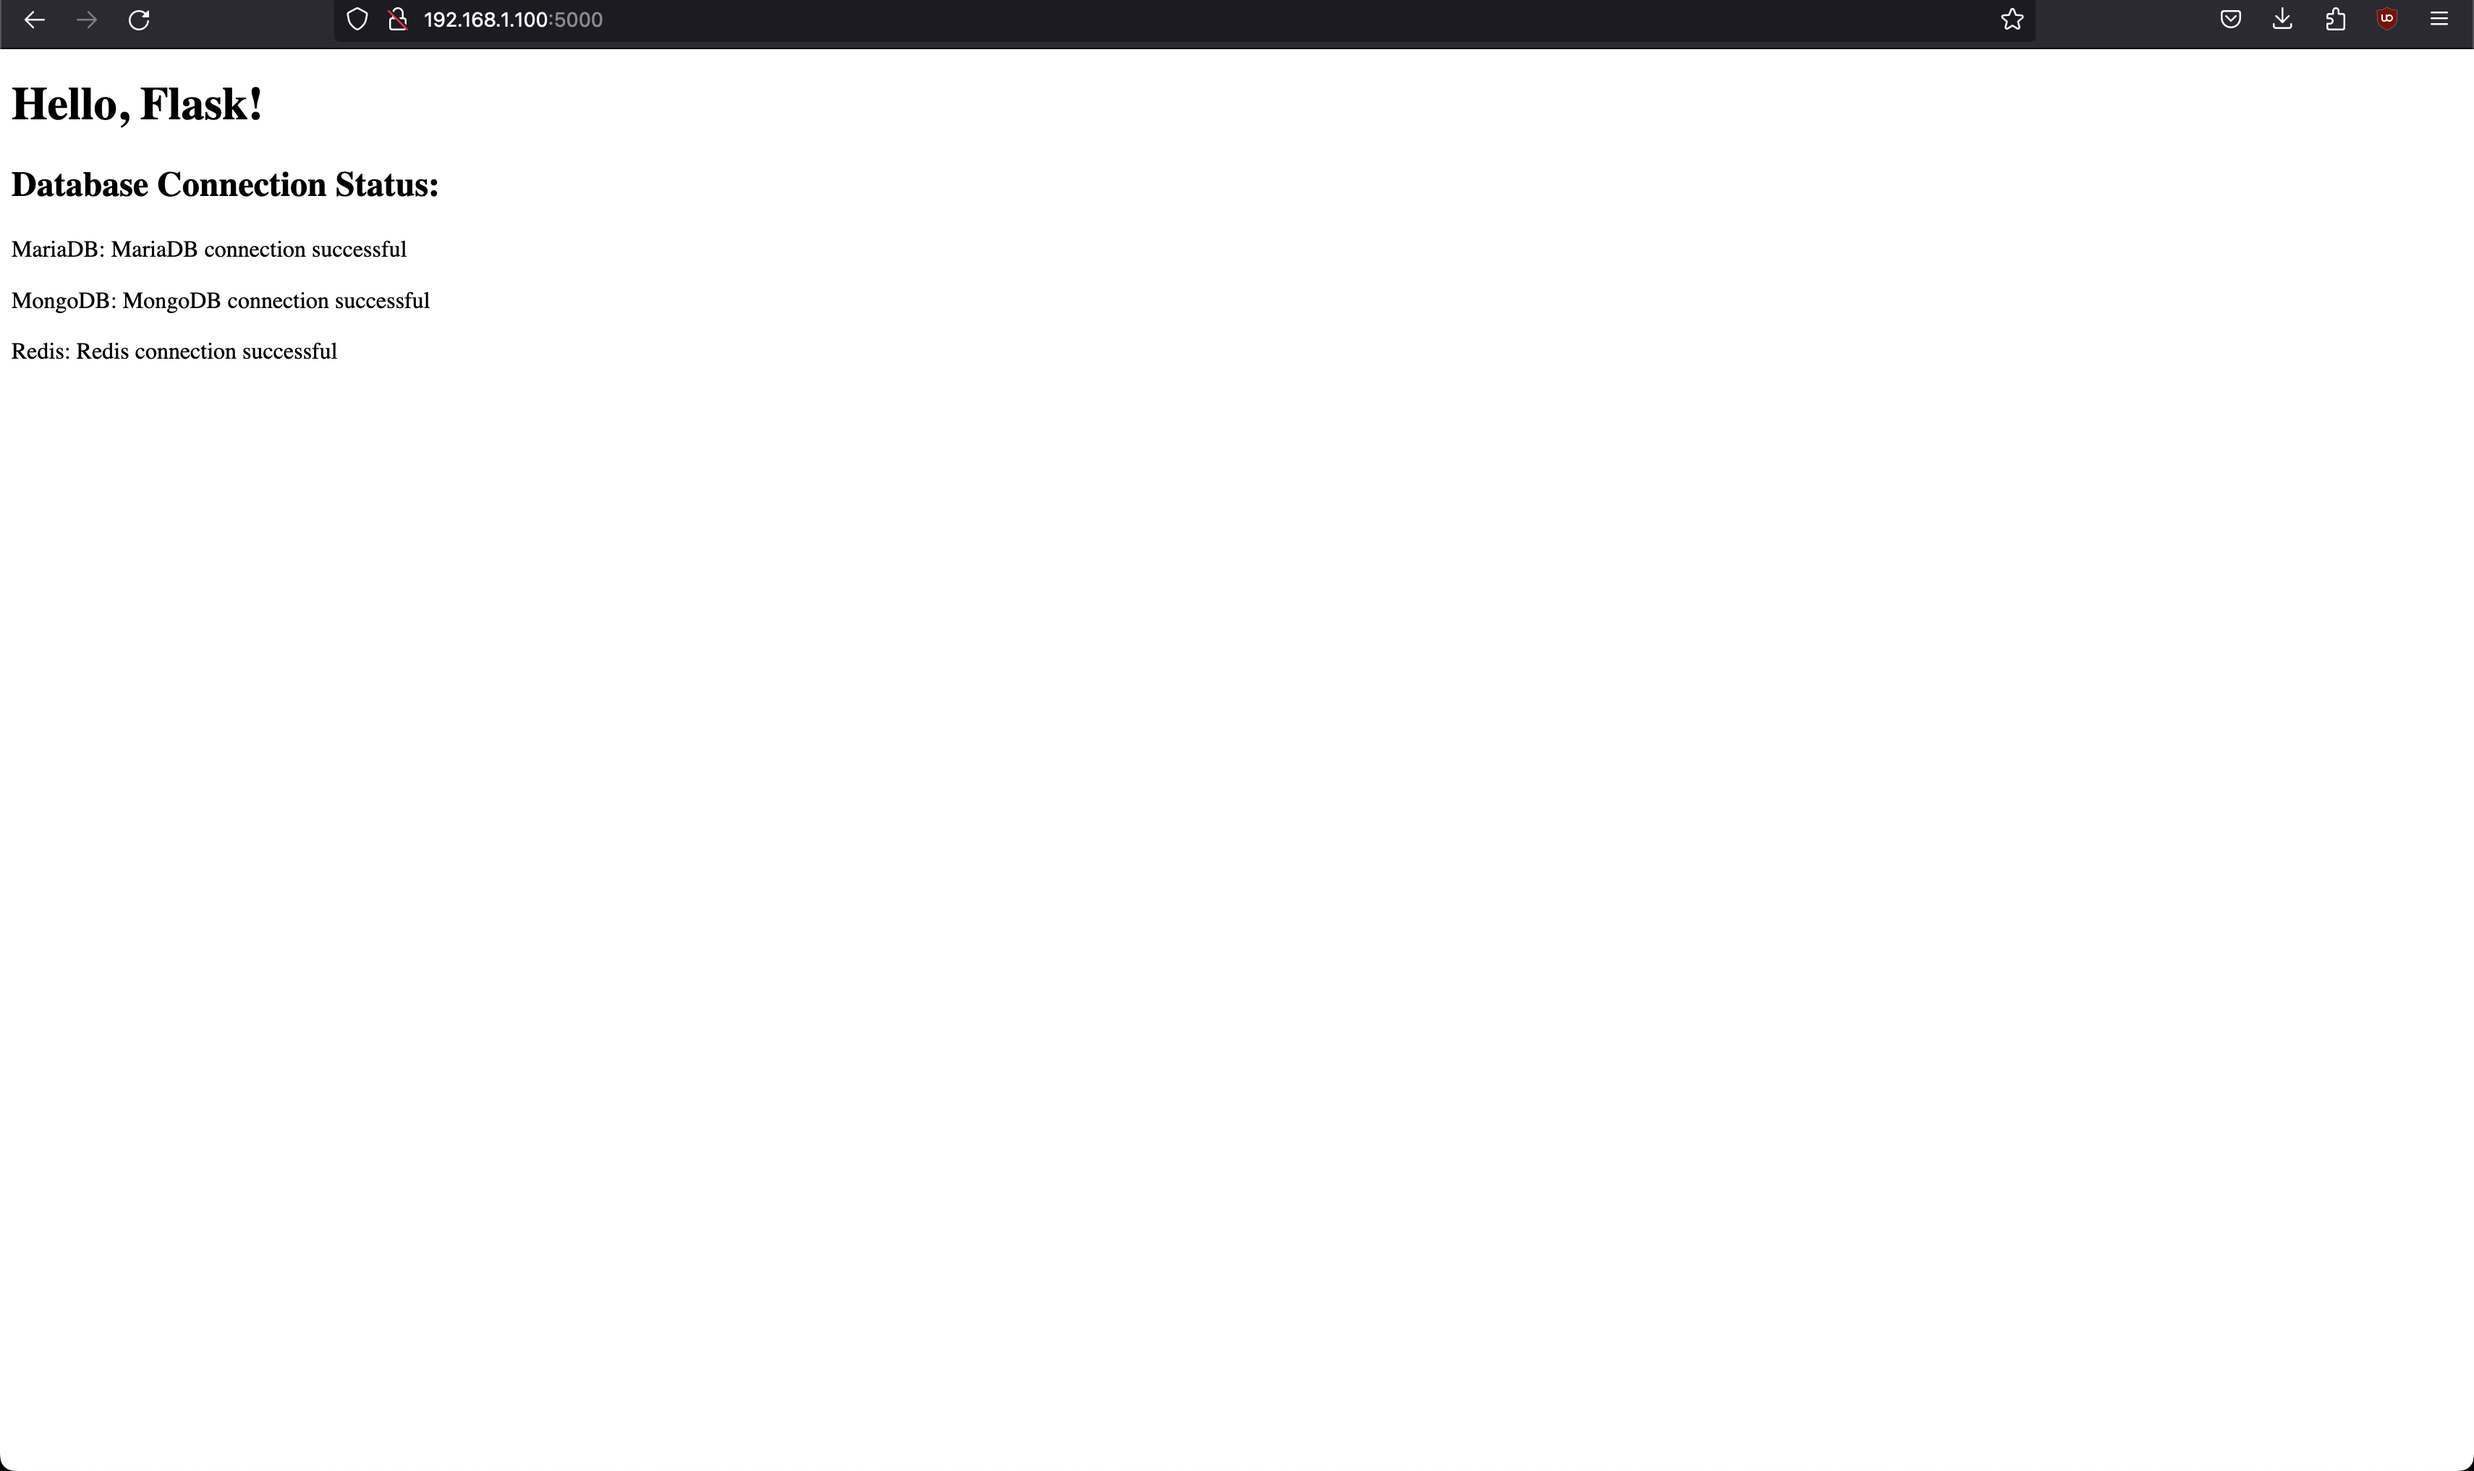
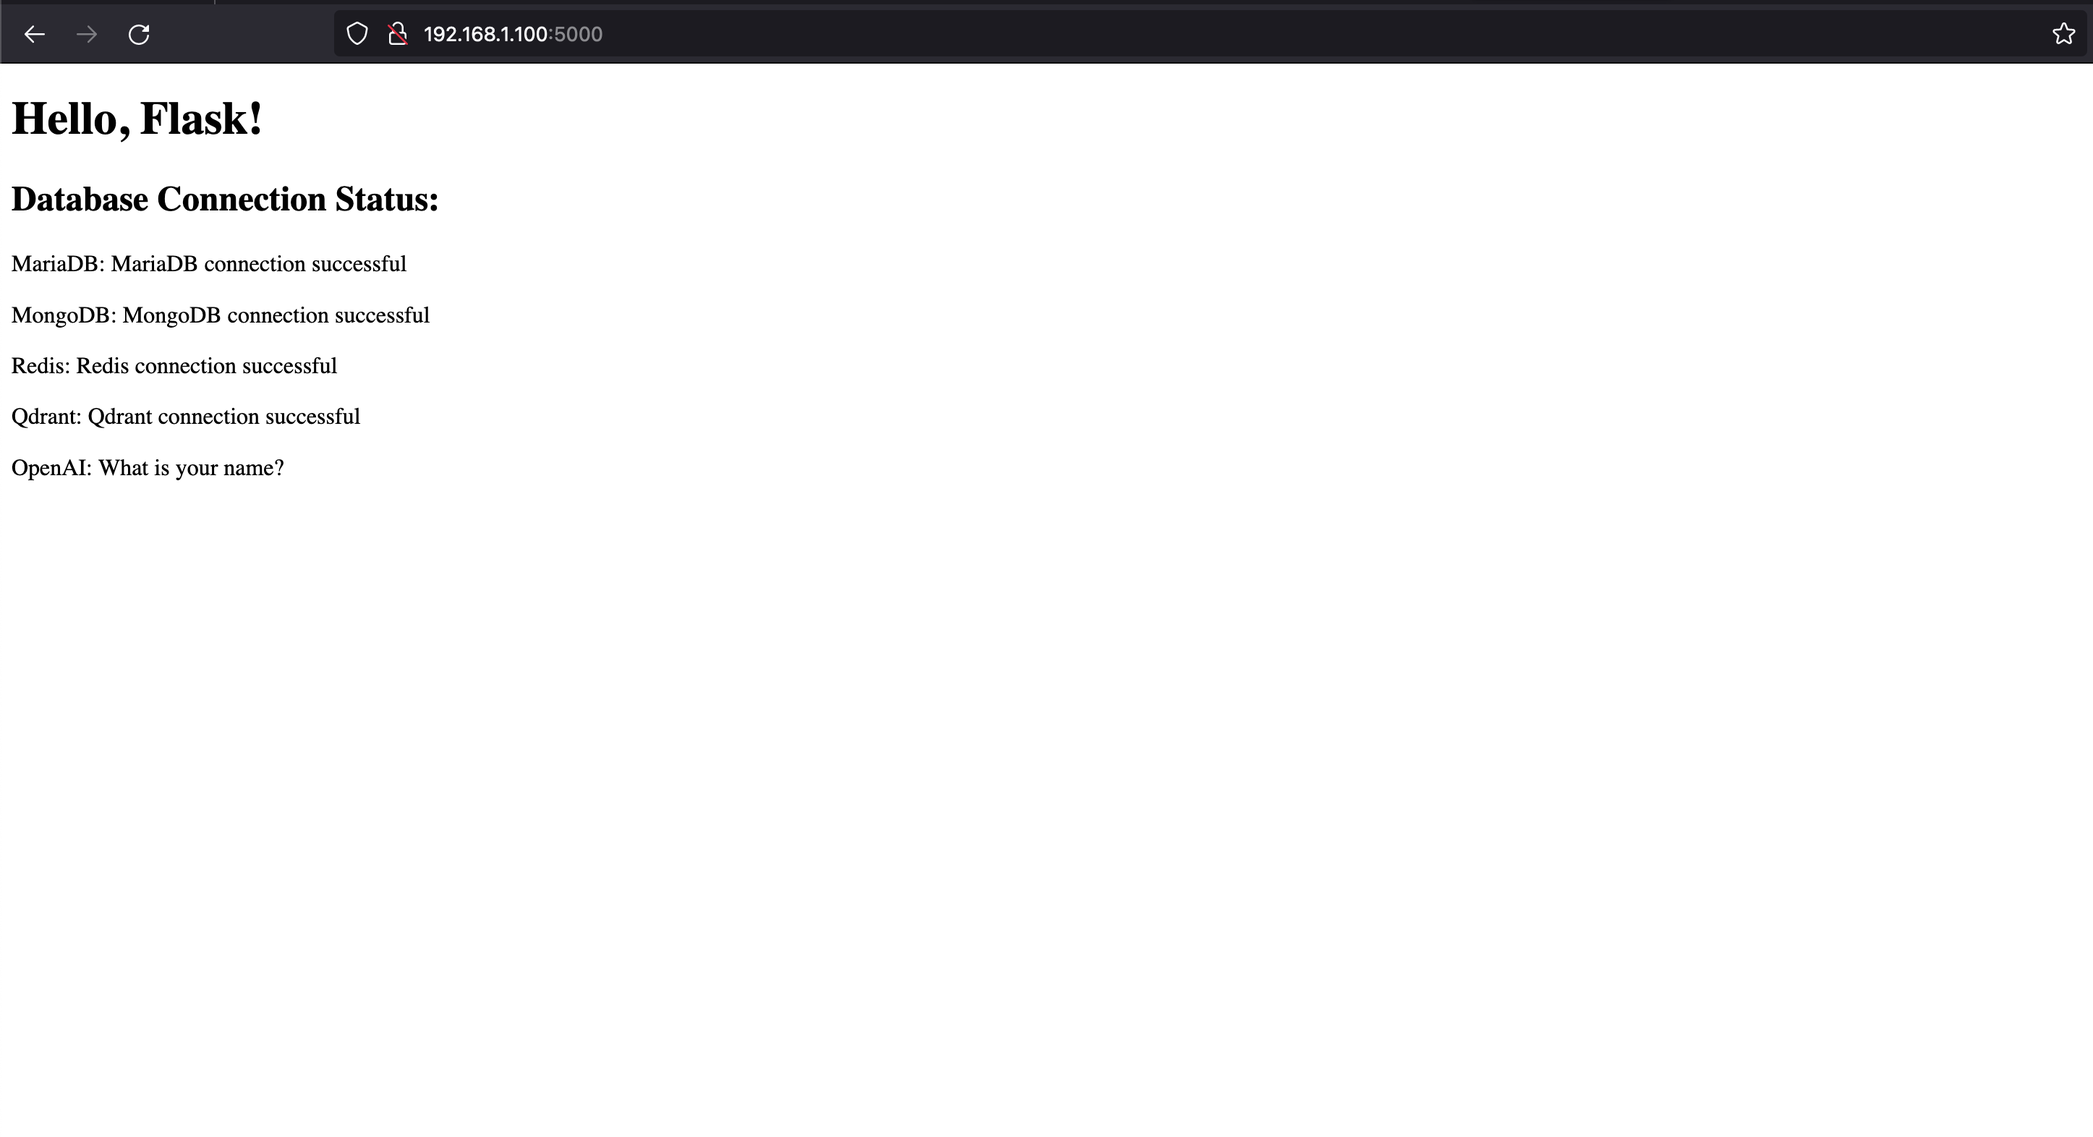
qdrant added

diff --git a/flask/templates/index.html b/flask/templates/index.html
@@ -12,6 +12,8 @@
     <p>MariaDB: {{ mariadb_status }}</p>
     <p>MongoDB: {{ mongo_status }}</p>
     <p>Redis: {{ redis_status }}</p>
+    <p>Qdrant: {{ qdrant_status }}</p>
+    <p>OpenAI: {{ openai_status }}</p>
 </body>
 
 </html>

diff --git a/flask/app.py b/flask/app.py
@@ -2,6 +2,8 @@ from flask import Flask, render_template
 from flask_sqlalchemy import SQLAlchemy
 from pymongo import MongoClient
 from redis import StrictRedis
+from qdrant_client import QdrantClient
+from openai import OpenAI
 
 app = Flask(__name__)
 
@@ -15,6 +17,12 @@ mongo_db = mongo_client['mongo-example']
 
 # Redis Configuration
 redis_client = StrictRedis(host='redis', port=6379, password='test')
+
+# Qdrant configuration
+qdrant_client = QdrantClient(host="qdrant", port="6333")
+
+# OpenAI configuration
+openai_client = OpenAI(base_url="http://192.168.1.100:5001/v1", api_key="sk-1234")
 
 @app.route('/')
 def hello():
@@ -39,8 +47,31 @@ def hello():
     except Exception as e:
         redis_status = f"Error connecting to Redis: {str(e)}"
 
-    return render_template('index.html', mariadb_status=mariadb_status, mongo_status=mongo_status, redis_status=redis_status)
+    qdrant_status = "Qdrant connection successful"
+    try:
+        qdrant_client.get_collections()
+    except Exception as e:
+        qdrant_status = f"Error connecting to Qdrant: {str(e)}"
+
+    try:
+        chat_completion = openai_client.chat.completions.create(
+            messages=[
+                {
+                    "role": "user",
+                    "content": "Say this is a test",
+                }
+            ],
+            model="gpt-3.5-turbo",
+        )
+
+        openai_status = chat_completion.choices[0].message.content
+    except Exception as e:
+        openai_status = f"Error connecting to OpenAI: {str(e)}"
+
+    
+
+    return render_template('index.html', mariadb_status=mariadb_status, mongo_status=mongo_status, redis_status=redis_status, qdrant_status=qdrant_status, openai_status=openai_status)
 
 
 if __name__ == '__main__':
-    app.run(host='0.0.0.0', port=5000)
+    app.run(host='0.0.0.0', port=8000)

diff --git a/README.md b/README.md
@@ -6,12 +6,13 @@ llama-docker
 - mariadb
 - mongodb
 - redis
-- TODO: vectordb, llama-index, langchain, stable diffusion
+- qdrant
+- TODO: stable diffusion
 
 Host system requires docker engine, nvidia drivers, nvidia-container-toolkit, nvidia-cuda-toolkit
 
 - Docker: https://docs.docker.com/engine/install/
-- nvidia container toolit: https://docs.nvidia.com/datacenter/cloud-native/container-toolkit/latest/install-guide.html
+- nvidia container toolkit: https://docs.nvidia.com/datacenter/cloud-native/container-toolkit/latest/install-guide.html
 - nvidia cuda toolkit: https://docs.nvidia.com/cuda/cuda-quick-start-guide/index.html
 
 Change your environment variables in .env, don't track changes to the file. This is not production ready.
@@ -27,12 +28,12 @@ After making changes to the flask app, rebuild the containers:
 docker compose up --build -d
 ```
 
-### Flask server
+## Flask server
 - Point web browser to http://{ip address}:5000
 
 ![Alt text](initial_run.png)
 
-### llama-cpp-python OpenAI compatible server
+## llama-cpp-python OpenAI compatible server
 
 Accessible at http://{ip address}:5001
 
@@ -57,23 +58,25 @@ API configuration is handled in llama_config.json. I strongly suggest you famili
 ```sh
 docker compose up -d
 
-[+] Running 5/5
- ✔ Container llama-docker-mariadb-1  Started                                                                                                                         0.0s 
- ✔ Container llama-docker-mongo-1    Started                                                                                                                         0.0s 
- ✔ Container llama-docker-redis-1    Started                                                                                                                         0.0s 
- ✔ Container llama-docker-cuda-1     Started                                                                                                                         0.0s 
- ✔ Container llama-docker-web-1      Started       
+[+] Running 6/6
+ ✔ Container llama-docker-qdrant-1   Running                                                                                                                         0.0s 
+ ✔ Container llama-docker-mongo-1    Running                                                                                                                         0.0s 
+ ✔ Container llama-docker-redis-1    Running                                                                                                                         0.0s 
+ ✔ Container llama-docker-mariadb-1  Running                                                                                                                         0.0s 
+ ✔ Container llama-docker-cuda-1     Running                                                                                                                         0.0s 
+ ✔ Container llama-docker-flask-1    Started                                                                                                                         1.2s     
 ```
 
 ```sh
 docker ps
 
-CONTAINER ID   IMAGE               COMMAND                  CREATED          STATUS          PORTS                                         NAMES
-7f0dca11338b   llama-docker-web    "gunicorn -w 2 -b :5…"   24 minutes ago   Up 30 seconds   0.0.0.0:5000->5000/tcp, :::5000->5000/tcp     llama-docker-web-1
-5d17b2cce06f   llama-docker-cuda   "python3 -m llama_cp…"   24 minutes ago   Up 30 seconds   0.0.0.0:5001->8080/tcp, :::5001->8080/tcp     llama-docker-cuda-1
-b5045b26e2ab   mongo               "docker-entrypoint.s…"   52 minutes ago   Up 31 seconds   0.0.0.0:5003->27017/tcp, :::5003->27017/tcp   llama-docker-mongo-1
-c66526999ae7   redis               "docker-entrypoint.s…"   52 minutes ago   Up 31 seconds   0.0.0.0:5004->6379/tcp, :::5004->6379/tcp     llama-docker-redis-1
-c90972615843   mariadb             "docker-entrypoint.s…"   52 minutes ago   Up 31 seconds   0.0.0.0:5002->3306/tcp, :::5002->3306/tcp     llama-docker-mariadb-1
+CONTAINER ID   IMAGE                COMMAND                  CREATED             STATUS             PORTS                                                 NAMES
+48ee8e97be62   llama-docker-flask   "gunicorn -w 2 -b :5…"   57 minutes ago      Up 57 minutes      0.0.0.0:5000->5000/tcp, :::5000->5000/tcp             llama-docker-flask-1
+a210a68f4551   llama-docker-cuda    "python3 -m llama_cp…"   About an hour ago   Up About an hour   0.0.0.0:5001->8080/tcp, :::5001->8080/tcp             llama-docker-cuda-1
+f0f8411cd57a   qdrant/qdrant        "./qdrant --uri http…"   About an hour ago   Up About an hour   6334/tcp, 0.0.0.0:5005->6333/tcp, :::5005->6333/tcp   llama-docker-qdrant-1
+2f33a5c8f961   mariadb              "docker-entrypoint.s…"   About an hour ago   Up About an hour   0.0.0.0:5002->3306/tcp, :::5002->3306/tcp             llama-docker-mariadb-1
+623f68ec83af   mongo                "docker-entrypoint.s…"   About an hour ago   Up About an hour   0.0.0.0:5003->27017/tcp, :::5003->27017/tcp           llama-docker-mongo-1
+67b5f456921a   redis                "docker-entrypoint.s…"   About an hour ago   Up About an hour   0.0.0.0:5004->6379/tcp, :::5004->6379/tcp             llama-docker-redis-1
 ```
 
 ```sh
@@ -81,13 +84,6 @@ docker logs <container id>
 
 ...
 ...
-llama_new_context_with_model: n_ctx      = 2048
-llama_new_context_with_model: freq_base  = 10000.0
-llama_new_context_with_model: freq_scale = 1
-llama_kv_cache_init:  CUDA_Host KV buffer size =  1120.00 MiB
-llama_kv_cache_init:      CUDA0 KV buffer size =   480.00 MiB
-llama_new_context_with_model: KV self size  = 1600.00 MiB, K (f16):  800.00 MiB, V (f16):  800.00 MiB
-llama_new_context_with_model: graph splits (measure): 5
 llama_new_context_with_model:      CUDA0 compute buffer size =   194.00 MiB
 llama_new_context_with_model:  CUDA_Host compute buffer size =   194.00 MiB
 AVX = 1 | AVX_VNNI = 0 | AVX2 = 1 | AVX512 = 1 | AVX512_VBMI = 1 | AVX512_VNNI = 1 | FMA = 1 | NEON = 0 | ARM_FMA = 0 | F16C = 1 | FP16_VA = 0 | WASM_SIMD = 0 | BLAS = 1 | SSE3 = 1 | SSSE3 = 1 | VSX = 0 | 
@@ -96,3 +92,12 @@ INFO:     Waiting for application startup.
 INFO:     Application startup complete.
 INFO:     Uvicorn running on http://0.0.0.0:8080 (Press CTRL+C to quit)
 ```
+
+## Qdrant vector db
+https://python-client.qdrant.tech/
+
+## llama-index
+https://docs.llamaindex.ai/en/stable/examples/vector_stores/QdrantIndexDemo.html
+
+## langchain
+https://python.langchain.com/docs/get_started/quickstart
